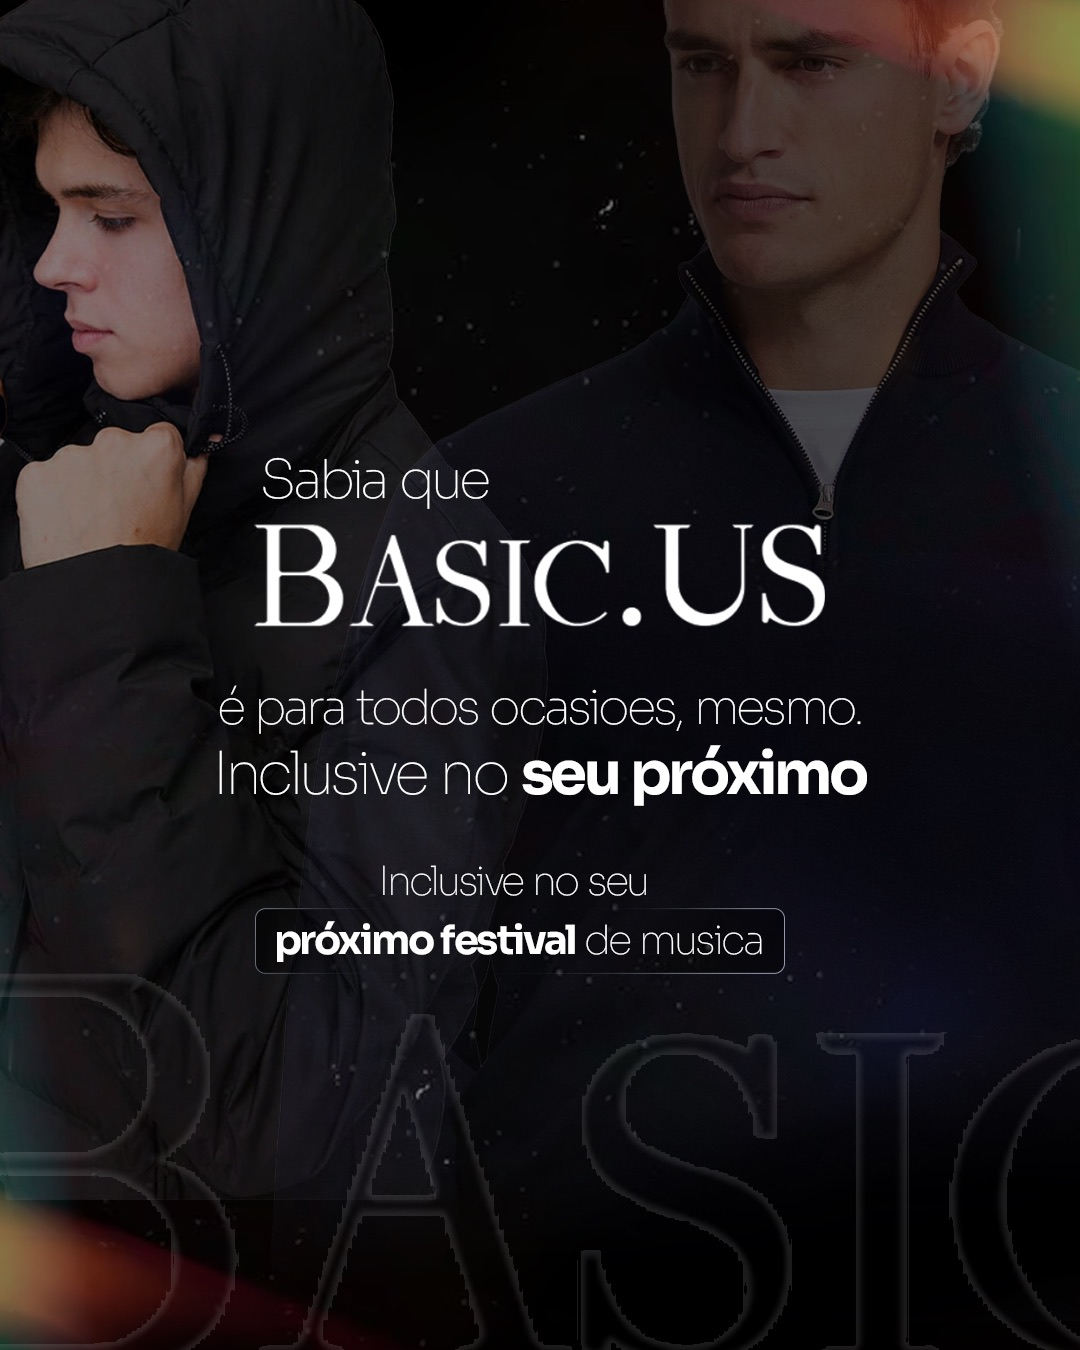
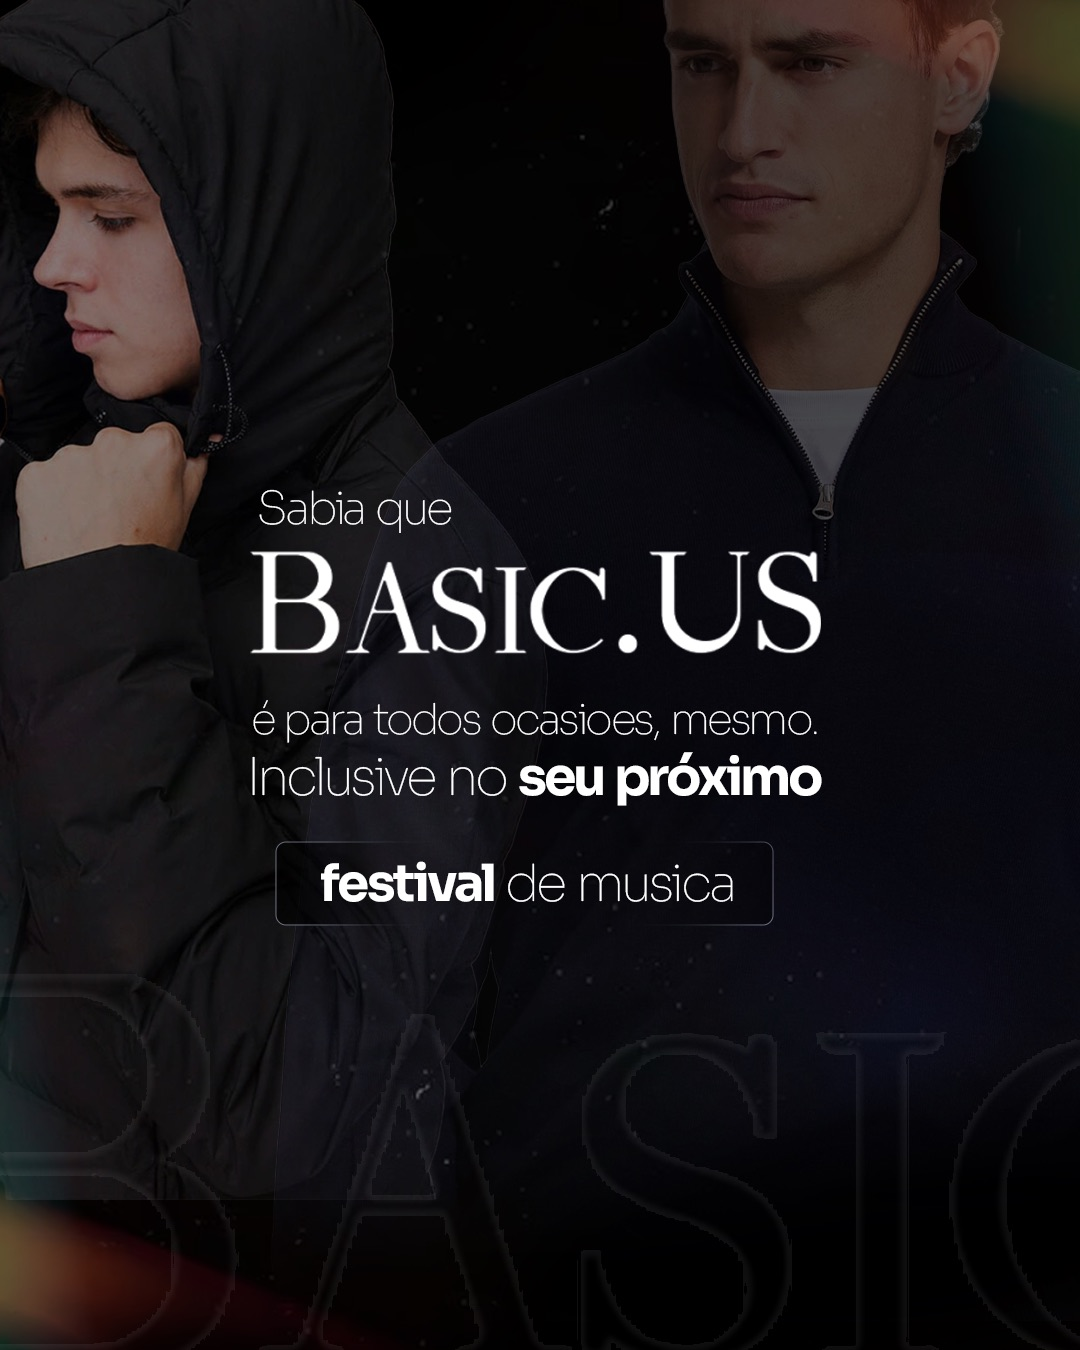
Atualiza imagem 1 do carrossel v8 (Basic.US) e bump de cache

diff --git a/js/carrosselv8.js b/js/carrosselv8.js
@@ -1,4 +1,4 @@
-const ASSET_VERSION = '20260902a';
+const ASSET_VERSION = '20260902b';
 
 const slides = [
   'img/carrossel-basicus-v8-1.jpg',
